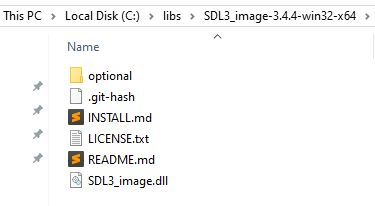
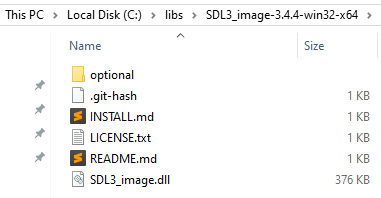
Add screenshots

diff --git a/tutorials/sdl3-renderer/mingw/setting-up-sdl3/index.html b/tutorials/sdl3-renderer/mingw/setting-up-sdl3/index.html
@@ -210,6 +210,41 @@
     <ul>
         <li>
             <span class="data-en">
+                Download two archives from the <a href="https://github.com/libsdl-org/SDL/releases/tag/release-3.4.8" target="_blank" rel="noopener noreferrer">official release page</a>:
+            </span>
+            <span class="data-ru">
+                Скачайте два архива со страницы <a href="https://github.com/libsdl-org/SDL/releases/tag/release-3.4.8" target="_blank" rel="noopener noreferrer">официального релиза</a>:
+            </span>
+            <br>
+            <img src="/assets/img/tutorials/sdl3-renderer/mingw/setting-up-sdl3/download-sdl3.png" alt="Download Link" class="img-fluid border rounded mt-3 shadow-sm">
+        </li>
+        <li>
+            <span class="data-en">
+                Extract the <b>SDL3-devel-3.4.8-mingw.zip</b> archive to the <code>C:/libs/SDL3-devel-3.4.8-mingw</code> folder.
+            </span>
+            <span class="data-ru">
+                Распакуйте архив <b>SDL3-devel-3.4.8-mingw.zip</b> в папку <code>C:/libs/SDL3-devel-3.4.8-mingw</code>.
+            </span>
+        </li>
+        <li>
+            <span class="data-en">
+                Move the headers and libraries so the structure is <code>SDL3-devel-3.4.8-mingw/include</code>, etc:
+            </span>
+            <span class="data-ru">
+                Переместите заголовочные файлы и библиотеки так, чтобы структура папок была <code>SDL3-devel-3.4.8-mingw/include</code> и т. д.:
+            </span>
+            <br>
+            <img src="/assets/img/tutorials/sdl3-renderer/mingw/setting-up-sdl3/setting-up-sdl3-1.png" alt="Folder structure Link" class="img-fluid border rounded mt-3 shadow-sm">
+        </li>
+        <li>
+            <span class="data-en">Extract the <b>SDL3-3.4.8-win32-x64.zip</b> archive so the path is exactly <code>C:/libs/SDL3-3.4.8-win32-x64</code>:</span>
+            <span class="data-ru">Распакуйте архив <b>SDL3-3.4.8-win32-x64.zip</b> так, чтобы путь был именно <code>C:/libs/SDL3-3.4.8-win32-x64</code>:</span>
+            <br>
+            <img src="/assets/img/tutorials/sdl3-renderer/mingw/setting-up-sdl3/setting-up-sdl3-2.png" alt="Folder structure Link" class="img-fluid border rounded mt-3 shadow-sm">
+        </li>
+
+        <!-- <li>
+            <span class="data-en">
                 Download the development files <b>SDL3-devel-3.4.8-mingw.zip</b>. You can use my 
                 <a href="/libs/mingw64_13.1/SDL3-devel-3.4.8-mingw.zip">pre-configured version</a> (recommended) 
                 or the <a href="https://github.com/libsdl-org/SDL/releases/tag/release-3.4.8" target="_blank" rel="noopener noreferrer">official release</a>. 
@@ -234,7 +269,7 @@
         <li>
             <span class="data-en">Additionally, download the runtime <b>SDL3-3.4.8-win32-x64.zip</b> from the <a href="https://github.com/libsdl-org/SDL/releases/tag/release-3.4.8" target="_blank" rel="noopener noreferrer">Official SDL Releases</a>. Extract the archive so the path is exactly <code>C:/libs/SDL3-3.4.8-win32-x64</code></span>
             <span class="data-ru">Кроме того, скачайте рантайм <b>SDL3-3.4.8-win32-x64.zip</b> с <a href="https://github.com/libsdl-org/SDL/releases/tag/release-3.4.8" target="_blank" rel="noopener noreferrer">официальной страницы релизов SDL</a>. Распакуйте архив так, чтобы путь был именно <code>C:/libs/SDL3-3.4.8-win32-x64</code></span>
-        </li>
+        </li> -->
     </ul>
 
     <!-- <h3 class="category-header">
@@ -268,8 +303,8 @@
 
     <div class="row">
         <div class="col-lg-6 mb-4">
-            <p class="data-en">Create an empty folder named <code>rectangle-sdl3-c</code> and set up the following hierarchy:</p>
-            <p class="data-ru">Создайте пустую папку с именем <code>rectangle-sdl3-c</code> и подготовьте следующую иерархию:</p>
+            <p class="data-en"><strong>C Project:</strong> Create an empty folder named <code>rectangle-sdl3-c</code> and set up the following hierarchy by creating new <code>CMakeLists.txt</code> and <code>main.c</code> files:</p>
+            <p class="data-ru"><strong>Проект на C:</strong> Создайте пустую папку с именем <code>rectangle-sdl3-c</code> и подготовьте следующую иерархию, создав файлы <code>CMakeLists.txt</code> и <code>main.c</code>:</p>
             <pre><code>rectangle-sdl3-c/
 ├── CMakeLists.txt
 └── src/
@@ -277,8 +312,8 @@
         </div>
 
         <div class="col-lg-6 mb-4">
-            <p class="data-en">Create an empty folder named <code>rectangle-sdl3-cpp</code> and set up the following hierarchy:</p>
-            <p class="data-ru">Создайте пустую папку с именем <code>rectangle-sdl3-cpp</code> и подготовьте следующую иерархию:</p>
+            <p class="data-en"><strong>C++ Project:</strong> Create an empty folder named <code>rectangle-sdl3-cpp</code> and set up the following hierarchy by creating new <code>CMakeLists.txt</code> and <code>main.cpp</code> files:</p>
+            <p class="data-ru"><strong>Проект на C++:</strong> Создайте пустую папку с именем <code>rectangle-sdl3-cpp</code> и подготовьте следующую иерархию, создав файлы <code>CMakeLists.txt</code> и <code>main.cpp</code>:</p>
             <pre><code>rectangle-sdl3-cpp/
 ├── CMakeLists.txt
 └── src/
@@ -300,6 +335,8 @@
 
     <div class="row">
         <div class="col-lg-6 mb-4">
+            <p class="data-en"><strong>C Project:</strong> Copy and paste the following code into the <code>CMakeLists.txt</code> file:</p>
+            <p class="data-ru"><strong>Проект на C:</strong> Скопируйте и вставьте следующее содержимое в файл <code>CMakeLists.txt</code>:</p>
             <h6 class="fw-bold text-primary">CMakeLists.txt (C version)</h6>
             <pre><code class="language-cmake">set(CMAKE_BUILD_TYPE "Debug")
 cmake_minimum_required(VERSION 3.21)
@@ -320,6 +357,8 @@ target_link_options(app PRIVATE -mconsole)</code></pre>
         </div>
 
         <div class="col-lg-6 mb-4">
+            <p class="data-en"><strong>C++ Project:</strong> Copy and paste the following code into the <code>CMakeLists.txt</code> file:</p>
+            <p class="data-ru"><strong>Проект на C++:</strong> Скопируйте и вставьте следующее содержимое в файл <code>CMakeLists.txt</code>:</p>
             <h6 class="fw-bold text-success">CMakeLists.txt (C++ version)</h6>
             <pre><code class="language-cmake">set(CMAKE_BUILD_TYPE "Debug")
 cmake_minimum_required(VERSION 3.21)
@@ -345,10 +384,12 @@ target_link_options(app PRIVATE -mconsole)</code></pre>
         <span class="data-ru">5. Исходный код</span>
     </h3>
 
-    <div class="row">
-        <div class="col-lg-6 mb-4">
-            <h6 class="fw-bold text-primary">main.c</h6>
-            <pre><code class="language-c">#include &lt;SDL3/SDL.h&gt;
+    <p class="data-en">Copy and paste the following code into the <code>src/main.c</code> (or <code>src/main.cpp</code>) file:</p>
+    <p class="data-ru">Скопируйте и вставьте следующее содержимое в файл <code>src/main.c</code> (или <code>src/main.cpp</code>):
+
+    <h6 class="fw-bold text-primary">main.c / main.cpp</h6>
+
+    <pre><code class="language-c">#include &lt;SDL3/SDL.h&gt;
 #include &lt;SDL3/SDL_main.h&gt;
 
 int main(int argc, char* argv[])
@@ -385,49 +426,6 @@ int main(int argc, char* argv[])
     SDL_Quit();
     return 0;
 }</code></pre>
-        </div>
-
-        <div class="col-lg-6 mb-4">
-            <h6 class="fw-bold text-success">main.cpp</h6>
-            <pre><code class="language-cpp">#include &lt;SDL3/SDL.h&gt;
-#include &lt;SDL3/SDL_main.h&gt;
-
-int main(int argc, char* argv[])
-{
-    if (!SDL_Init(SDL_INIT_VIDEO)) {
-        return -1;
-    }
-
-    SDL_Window* window = SDL_CreateWindow("SDL3 C++", 400, 300, 0);
-    SDL_Renderer* renderer = SDL_CreateRenderer(window, nullptr);
-
-    bool running = true;
-    SDL_Event event;
-
-    while (running) {
-        while (SDL_PollEvent(&event)) {
-            if (event.type == SDL_EVENT_QUIT) {
-                running = false;
-            }
-        }
-
-        SDL_SetRenderDrawColor(renderer, 30, 30, 30, 255);
-        SDL_RenderClear(renderer);
-
-        SDL_FRect rect{ 125.0f, 125.0f, 150.0f, 50.0f };
-        SDL_SetRenderDrawColor(renderer, 0, 255, 0, 255);
-        SDL_RenderFillRect(renderer, &rect);
-
-        SDL_RenderPresent(renderer);
-    }
-
-    SDL_DestroyRenderer(renderer);
-    SDL_DestroyWindow(window);
-    SDL_Quit();
-    return 0;
-}</code></pre>
-        </div>
-    </div>
 
     <h3 class="category-header">
         <span class="data-en">6. Opening the Project in IDEs</span>
@@ -470,18 +468,17 @@ cd ..\..</code></pre>
     <div class="row">
         <div class="col-md-4">
             <h6 class="fw-bold text-secondary">1. config-exe.bat</h6>
-            <pre><code class="language-bash">cmake -G "MinGW Makefiles" -S . -B dist/win ^
--DCMAKE_BUILD_TYPE=Debug</code></pre>
+            <pre><code class="language-bash">cmake -G "MinGW Makefiles" -S . -B dist/exe</code></pre>
         </div>
         <div class="col-md-4">
             <h6 class="fw-bold text-secondary">2. build-exe.bat</h6>
-            <pre><code class="language-bash">cd dist\win
+            <pre><code class="language-bash">cd dist\exe
 cmake --build .
 cd ..\..</code></pre>
         </div>
         <div class="col-md-4">
             <h6 class="fw-bold text-secondary">3. run-exe.bat</h6>
-            <pre><code class="language-bash">dist\win\app</code></pre>
+            <pre><code class="language-bash">dist\exe\app</code></pre>
         </div>
     </div>
 